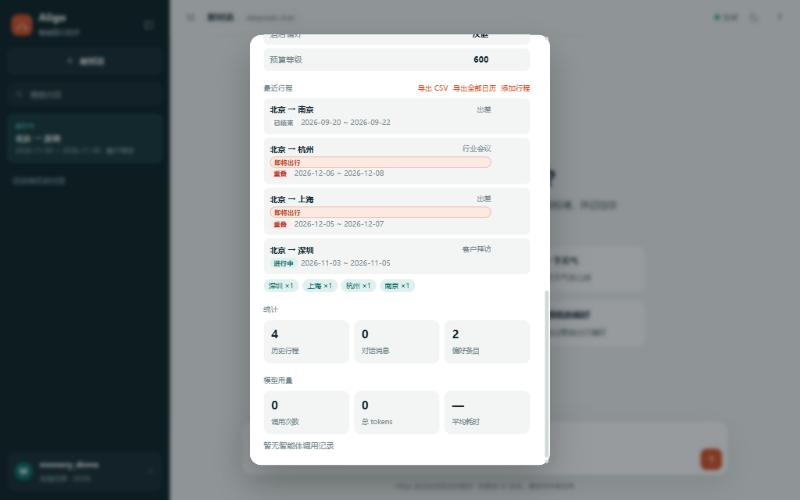
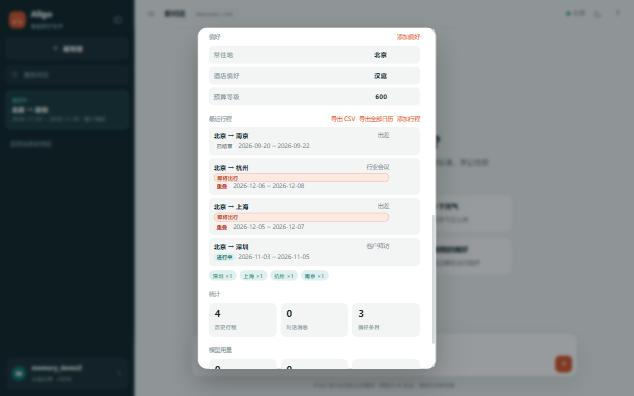
style(web): 浅色主题对比度达到 WCAG AA (#146)
* docs: 刷新记忆面板截图并更新英文 TL;DR

- 截图包含手动添加偏好、行程状态 / 重叠徽标、CSV 导出
- TL;DR 补充语义检索、CLI 导出、限流额度头

* style(web): 浅色主题对比度达到 WCAG AA

- ink-3 #7b8d93 -> #5f727a（白底 5.03 / 页面底色 4.59）
- accent #d9552c -> #c44720（白字 4.92）、hover #b83f1c
- 侧栏「即将出行」标签改用亮橙 #ff8259（深色底 6.58）

---------

diff --git a/webapp/static/style.css b/webapp/static/style.css
@@ -8,11 +8,11 @@
   --surface-2: #f6f8f7;
   --ink: #14262e;
   --ink-2: #40555e;
-  --ink-3: #7b8d93;
+  --ink-3: #5f727a;
   --line: #e2e9e8;
   --line-strong: #cfdad9;
-  --accent: #d9552c;
-  --accent-strong: #bf4520;
+  --accent: #c44720;
+  --accent-strong: #b83f1c;
   --accent-soft: #fbe9e2;
   --teal: #0f6f69;
   --teal-soft: #e0f0ee;
@@ -229,7 +229,7 @@ mark { background: rgba(224, 85, 43, 0.2); color: inherit; border-radius: 3px; p
 .upcoming.ongoing { border-color: rgba(82, 183, 174, 0.42); background: rgba(82, 183, 174, 0.14); }
 .upcoming.ongoing:hover { background: rgba(82, 183, 174, 0.22); }
 .upcoming.ongoing .upcoming-label { color: #6cc9c0; }
-.upcoming-label { display: block; font-size: 10.5px; color: var(--accent); }
+.upcoming-label { display: block; font-size: 10.5px; color: #ff8259; }
 .upcoming-route {
   display: block;
   margin-top: 1px;

diff --git a/README.md b/README.md
@@ -6,7 +6,7 @@
 
 基于**大语言模型**（默认 DeepSeek，兼容豆包 / OpenAI 等 OpenAI 兼容接口）和 **AgentScope 框架**的多智能体旅行规划系统，采用Plan-and-Execute架构，实现智能意图识别、两层记忆系统、RAG知识库、联网搜索和优先级并行调度。
 
-> **English TL;DR** — Aligo is a local-first, multi-agent travel-planning assistant built with **FastAPI + AgentScope** and any OpenAI-compatible LLM (DeepSeek by default). It combines a two-tier memory system (in-process/Redis short-term, JSON/PostgreSQL long-term), a **Milvus Lite RAG** knowledge base with web maintenance and JSON export/import, parallel Plan-and-Execute agents with **live SSE progress**, and a dependency-free web UI (session history with search / pin / archive, memory/usage panel, trip management with calendar export, knowledge maintenance, self-diagnostics). A CLI covers maintenance tasks (`sessions`, `session-archive`, `kb-*`, `trips-dedupe`, `eval`, `doctor`), and responses are gzip-compressed except SSE. Tests run without API keys (`pytest tests -q`); CI covers Python 3.10/3.12 with Redis and PostgreSQL service containers.
+> **English TL;DR** — Aligo is a local-first, multi-agent travel-planning assistant built with **FastAPI + AgentScope** and any OpenAI-compatible LLM (DeepSeek by default). It combines a two-tier memory system (in-process/Redis short-term, JSON/PostgreSQL long-term), a **Milvus Lite RAG** knowledge base with web maintenance (category filter, semantic search, CRUD, JSON export/import), parallel Plan-and-Execute agents with **live SSE progress**, and a dependency-free web UI (session history with search / pin / archive, memory/usage panel with manual preferences, trip management with calendar & CSV export, knowledge maintenance, self-diagnostics). A CLI covers maintenance tasks (`sessions`, `session-archive`, `session-export`, `kb-*`, `trips-export`, `trips-dedupe`, `eval`, `doctor`), responses are gzip-compressed except SSE and carry rate-limit headers. Tests run without API keys (`pytest tests -q`); CI covers Python 3.10/3.12 with Redis and PostgreSQL service containers.
 
 > **实现现状**：本仓库是可直接运行的**本地实现**——短期记忆默认进程内滑动窗口，长期记忆默认 JSON 文件（`data/memory/`），RAG 使用 Milvus Lite 本地向量库。Redis / PostgreSQL 为**可选生产存储后端**（配置 `REDIS_URL` / `DATABASE_URL` 启用，未配置或连接失败时自动回退）；关键指标为开发期实验口径（见「关键指标」小节说明）。
 

diff --git a/CHANGELOG.md b/CHANGELOG.md
@@ -61,6 +61,7 @@
 - 安全响应头：CSP（仅同源脚本）/ `X-Content-Type-Options` / `X-Frame-Options` / `Referrer-Policy` / `Permissions-Policy`；主题初始化拆分为 `/static/theme.js` 以满足 CSP
 
 ### 变更
+- 浅色主题可读性：次要文字（`--ink-3`）与信号橙调整到 WCAG AA 对比度（≥4.5:1），侧栏「即将出行」标签改用更亮的橙色
 - 记忆面板存储状态在「已配置 Redis / PostgreSQL 但当前回退本地」时显示红色提示，避免误以为数据写入了远端后端
 - Redis 短期记忆键改为 `aligo:session:{user_id}:{session_id}:messages`（用户级隔离；删除会话时同时清理旧格式键）；未缓存会话的「删除最后一轮」也会清理 Redis，多用户复用同一 session_id 不再串上下文
 - 响应压缩：静态资源与 JSON 响应启用 gzip（≥1KB），`/api/chat/stream`（SSE）保持不压缩，避免缓冲破坏实时进度
